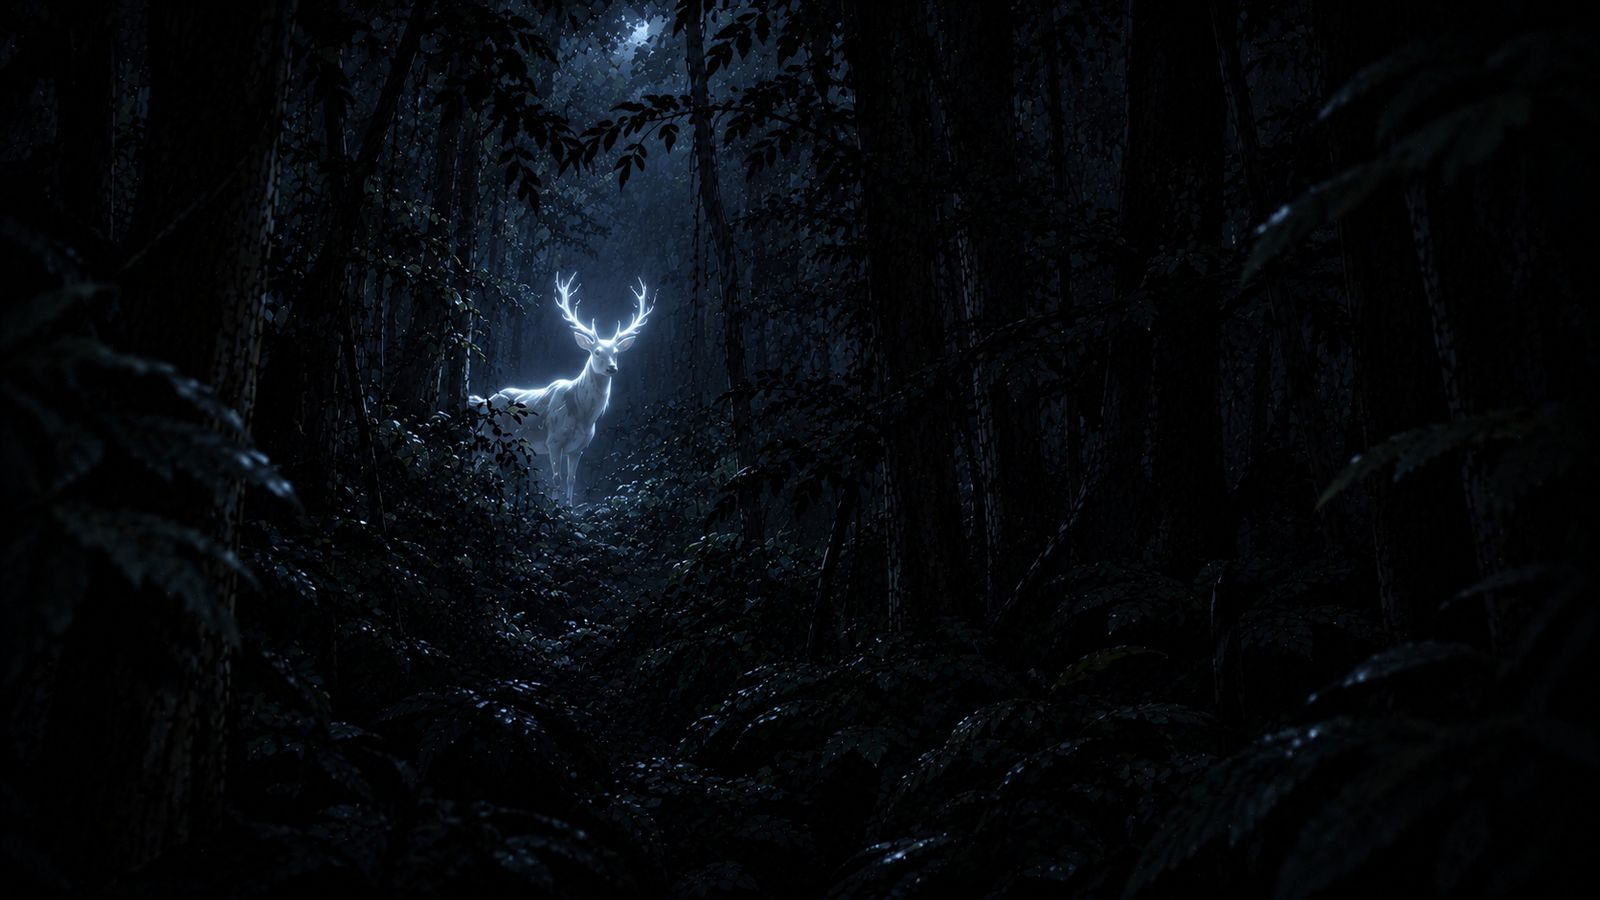
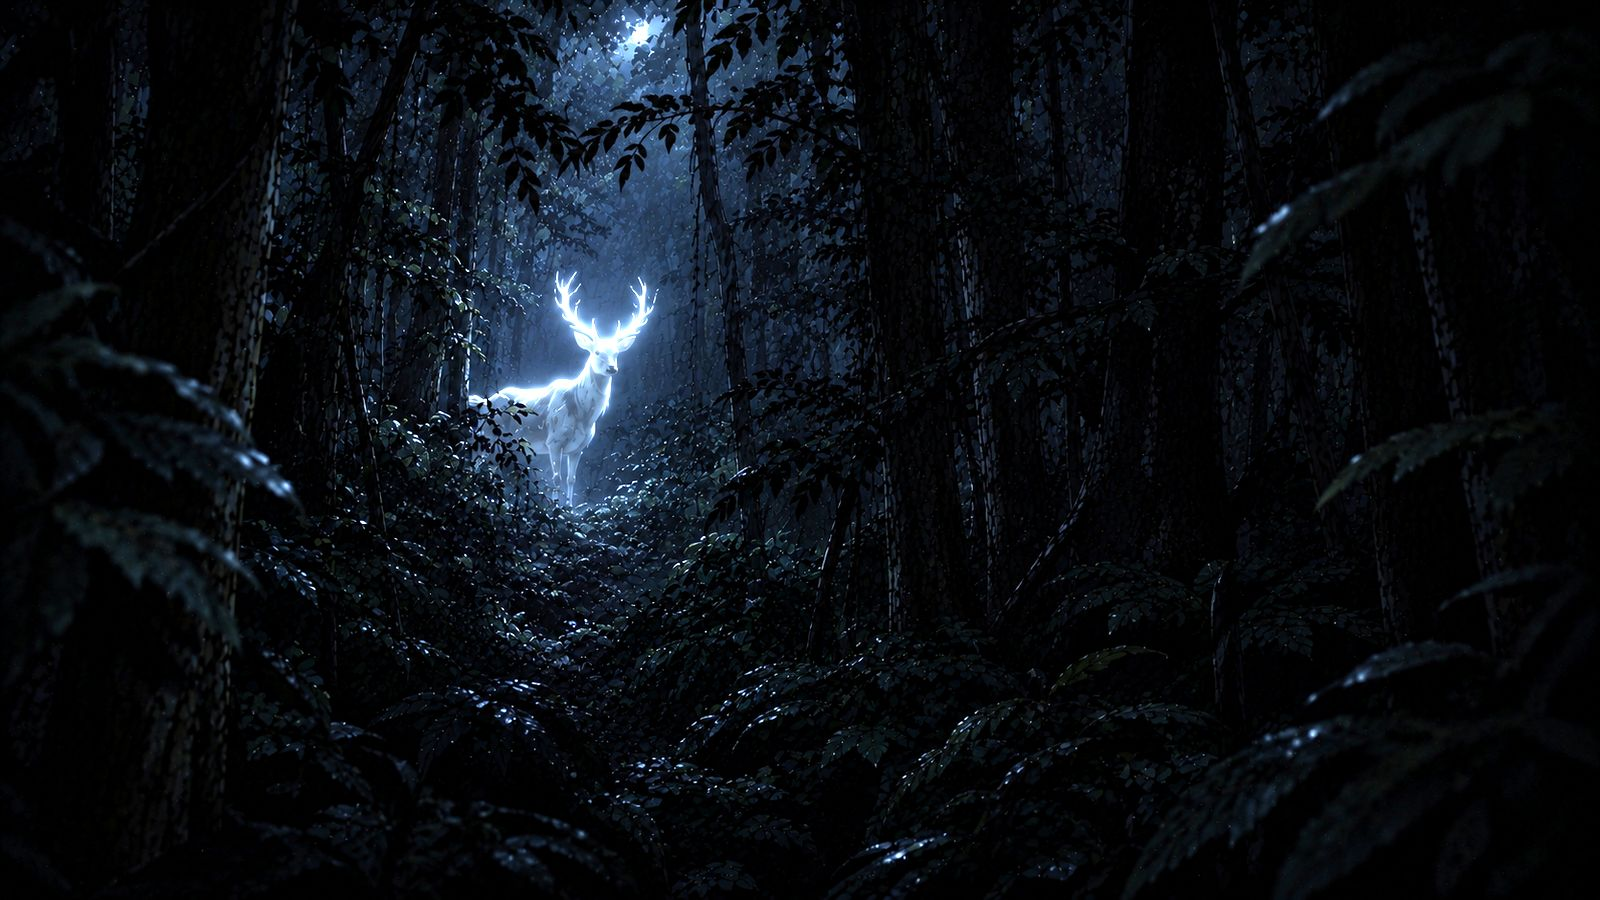
Manhã na fogueira com os corpos, Anhangá mais claro e falas fora de hora
- Toda manhã depois de uma morte (pela mão do jogador ou pela maldição)
  começa na fogueira de dia (FogueiraDia, nova), com cada corpo coberto pela
  esteira onde a pessoa sentava e o nome em cima.
- Esteiras clareadas na conversão (2,1x): não somem mais no chão escuro.
- Anhangá: imagens clareadas e mostradas sem o filtro da noite (o veado com
  as cores do desenho); o mesmo nos fundos próprios dos finais.
- Fundo do final A Água do Batismo (Finais/batismo.png); o Anhangá_final foi
  para Arte/Ar_livre/Finais/.
- Falas que só cabiam na 1ª noite: Potira (noites 5 a 10), Iandé (noite 8) e
  as orelhas de Tamandaré-mirim nas noites 9 e 10.

diff --git a/Jogo/dados/noites.py b/Jogo/dados/noites.py
@@ -244,13 +244,21 @@ ZONAS_POTIRA = [
     {"pergunta": "Respiração",
      "resposta": "Respira fundo, sem tosse."},
 ]
+# Da noite 5 em diante, Potira já dorme na aldeia: o cansaço e o frio não são mais do caminho.
+ZONAS_POTIRA_DEPOIS = [dict(zona) for zona in ZONAS_POTIRA]
+ZONAS_POTIRA_DEPOIS[1] = {"pergunta": "Olhos", "imagem": "olho_potira",
+                          "resposta": "[É sono]. Desde que voltei, durmo pouco."}
+ZONAS_POTIRA_DEPOIS[3] = {"pergunta": "Boca", "imagem": "boca_potira",
+                          "resposta": ["Os lábios? Estão secos.", "[É do frio]. As noites esfriaram."]}
 # Se Potira pegou a febre na oca e mostra: o olho vermelho e a boca ferida.
-ZONAS_POTIRA = pode_pegar_febre(ZONAS_POTIRA, "Potira", {
+POTIRA_COM_FEBRE = {
     "Olhos": {"sinal": True, "imagem": "olho_potira_doente",
               "resposta": "(treme) [Dormi mal], só isso."},
     "Boca": {"sinal": True, "imagem": "boca_potira_doente",
              "resposta": "(tosse) Arde por dentro."},
-})
+}
+ZONAS_POTIRA = pode_pegar_febre(ZONAS_POTIRA, "Potira", POTIRA_COM_FEBRE)
+ZONAS_POTIRA_DEPOIS = pode_pegar_febre(ZONAS_POTIRA_DEPOIS, "Potira", POTIRA_COM_FEBRE)
 
 
 # --- Noite 5: Tamandaré-mirim, com a maldição ---
@@ -367,6 +375,13 @@ def com_pescoco(zonas, pescoco=PESCOCO_LIMPO):
 ZONAS_TAMANDARE_NOITE_9 = com_pescoco(ZONAS_TAMANDARE_NOITE_6, {
     "pergunta": "Pescoço", "sinal": True,
     "resposta": "As manchas brancas já desceram até o pescoço."})
+# Atrás das orelhas, as manchas não estão mais "começando": já desceram.
+ZONAS_TAMANDARE_NOITE_9[3] = {"pergunta": "Orelhas", "sinal": True,
+                              "resposta": "Atrás das orelhas, manchas brancas que descem pelo pescoço."}
+# Na noite 8, Iandé já dormiu na aldeia (não mais na vila).
+ZONAS_IANDE_NOITE_8 = [dict(zona) for zona in ZONAS_IANDE]
+ZONAS_IANDE_NOITE_8[1] = {"pergunta": "Olhos", "imagem": "olho_iande",
+                          "resposta": "[Dormi bem]. A rede daqui é macia."}
 # Na noite 9 a maldição de Iandé aparece também no olho e na boca.
 ZONAS_IANDE_NOITE_9 = [dict(zona) for zona in ZONAS_IANDE]
 ZONAS_IANDE_NOITE_9[1] = {"pergunta": "Olhos", "sinal": True, "imagem": "olho_iande_doente",
@@ -787,7 +802,7 @@ NOITES = {
                         barulho_na_mata(),
                     ]},
                     {"tipo": "exame", "quem": "Potira", "liberadas": ["Olhos", "Boca"],
-                     "texto": TEXTO_EXAME, "zonas": ZONAS_POTIRA},
+                     "texto": TEXTO_EXAME, "zonas": ZONAS_POTIRA_DEPOIS},
                     escolha_onde_dorme("Potira", "Durmo na rede de sempre.",
                                        "Sozinha? Se você manda, eu vou."),
                     {"tipo": "visitante", "visitante": None},
@@ -889,7 +904,7 @@ NOITES = {
                          "resposta": "Vi rede vazia pendurada. Não entrei."},
                     ]},
                     {"tipo": "exame", "quem": "Potira", "liberadas": LIBERADAS_NOITE_6,
-                     "texto": TEXTO_EXAME, "zonas": ZONAS_POTIRA},
+                     "texto": TEXTO_EXAME, "zonas": ZONAS_POTIRA_DEPOIS},
                     escolha_onde_dorme("Potira", "Durmo na rede de sempre.",
                                        "Sozinha? Se você manda, eu vou."),
                     {"tipo": "visitante", "visitante": None},
@@ -988,7 +1003,7 @@ NOITES = {
                          "resposta": "Vi rede vazia pendurada. Não entrei."},
                     ]},
                     {"tipo": "exame", "quem": "Potira", "liberadas": LIBERADAS_NOITE_6,
-                     "texto": TEXTO_EXAME, "zonas": ZONAS_POTIRA},
+                     "texto": TEXTO_EXAME, "zonas": ZONAS_POTIRA_DEPOIS},
                     escolha_onde_dorme("Potira", "Durmo na rede de sempre.",
                                        "Sozinha? Se você manda, eu vou."),
                     {"tipo": "visitante", "visitante": None},
@@ -1129,7 +1144,7 @@ NOITES = {
                          "resposta": "Vi rede vazia pendurada. Não entrei."},
                     ]},
                     {"tipo": "exame", "quem": "Potira", "liberadas": LIBERADAS_NOITE_6,
-                     "texto": TEXTO_EXAME, "zonas": ZONAS_POTIRA},
+                     "texto": TEXTO_EXAME, "zonas": ZONAS_POTIRA_DEPOIS},
                     escolha_onde_dorme("Potira", "Durmo na rede de sempre.",
                                        "Sozinha? Se você manda, eu vou."),
                     {"tipo": "visitante", "visitante": None},
@@ -1162,7 +1177,7 @@ NOITES = {
                          "resposta": "Vi uma casa fechada, com uma cruz na porta."},
                     ]},
                     {"tipo": "exame", "quem": "Iandé", "liberadas": LIBERADAS_NOITE_6,
-                     "texto": TEXTO_EXAME, "zonas": ZONAS_IANDE},
+                     "texto": TEXTO_EXAME, "zonas": ZONAS_IANDE_NOITE_8},
                     escolha_onde_dorme("Iandé", "Na minha rede de sempre. Que saudade.",
                                        "Sozinha? O que foi que eu fiz?"),
                     {"tipo": "visitante", "visitante": None},
@@ -1244,7 +1259,7 @@ NOITES = {
                          "resposta": "Vi rede vazia pendurada. Não entrei."},
                     ]},
                     {"tipo": "exame", "quem": "Potira", "liberadas": LIBERADAS_NOITE_9,
-                     "texto": TEXTO_EXAME, "zonas": com_pescoco(ZONAS_POTIRA)},
+                     "texto": TEXTO_EXAME, "zonas": com_pescoco(ZONAS_POTIRA_DEPOIS)},
                     escolha_onde_dorme("Potira", "Durmo na rede de sempre.",
                                        "Sozinha? Se você manda, eu vou."),
                     {"tipo": "visitante", "visitante": None},
@@ -1377,7 +1392,7 @@ NOITES = {
                          "resposta": "Vi rede vazia pendurada. Não entrei."},
                     ]},
                     {"tipo": "exame", "quem": "Potira", "liberadas": LIBERADAS_NOITE_10,
-                     "texto": TEXTO_EXAME, "zonas": com_pescoco(ZONAS_POTIRA)},
+                     "texto": TEXTO_EXAME, "zonas": com_pescoco(ZONAS_POTIRA_DEPOIS)},
                     escolha_onde_dorme("Potira", "Durmo na rede de sempre.",
                                        "Sozinha? Se você manda, eu vou."),
                     {"tipo": "visitante", "visitante": None},

diff --git a/Jogo/cenas/dia.py b/Jogo/cenas/dia.py
@@ -52,6 +52,8 @@ POSICAO_BOTAO_MENU = (1420, 60)
 CENTRO_DICA_FOGUEIRA = (800, 850)          # sem a seta de ir dormir, a dica fica embaixo
 CENTRO_DICA_FOGUEIRA_SETA = (800, 730)     # com a seta, ela sobe
 CENTRO_SETA_DORMIR = (800, 830)
+# A manhã depois de uma morte: a fogueira de perto, de dia (os troncos no mesmo lugar que de noite).
+FOGUEIRA_DE_DIA = "fogueira_dia"
 LARGURA_DETALHE = 520          # o olho de perto, embaixo do painel
 # Fala que mostra o olho de perto: a caixa de texto fica menor, para o olho caber grande.
 LARGURA_PAINEL_DETALHE = 500
@@ -76,6 +78,13 @@ class Dia(Cena):
 
         self.fundo = ("aldeia", "dia")
         self.fundo_anterior = None
+        # Quem morreu na noite passada (pela mão do jogador ou pela maldição) amanhece coberto
+        # com a esteira, na fogueira: as notícias da manhã aparecem lá, até o jogador sair
+        # andando pela aldeia (o passo "aldeia").
+        self.manha_na_fogueira = any(corpo.get("fogueira") and corpo["noite"] == self.estado.dia - 1
+                                     for corpo in self.estado.corpos)
+        if self.manha_na_fogueira:
+            self.fundo = (FOGUEIRA_DE_DIA, "dia")
         self.tempo_troca = DURACAO_TROCA_DE_FUNDO
         self.visitante = None
         self.tempo_chegada = DURACAO_CHEGADA
@@ -169,6 +178,9 @@ class Dia(Cena):
             passo = self.fila.pop(0)
             tipo = passo["tipo"]
             if tipo == "fundo":
+                if self.manha_na_fogueira and passo["fundo"] == "aldeia":
+                    continue   # a manhã fica na fogueira, com os corpos
+                self.manha_na_fogueira = False
                 self._trocar_fundo((passo["fundo"], passo.get("filtro", "noite")))
             elif tipo == "visitante":
                 self.visitante = passo["visitante"]
@@ -185,6 +197,9 @@ class Dia(Cena):
                 self._mostrar_fala(DIA["tabua"], DIA["anotado"] + " " + passo["texto"])
                 return
             elif tipo == "aldeia":
+                if self.manha_na_fogueira:
+                    self.manha_na_fogueira = False
+                    self._trocar_fundo(("aldeia", "dia"))
                 self._ir_para_aldeia(passo)
                 return
             elif tipo == "se":
@@ -326,12 +341,16 @@ class Dia(Cena):
         """De noite, quem o jogador matou nesta fogueira; de manhã, na fogueira, o da noite passada."""
         noite = self.estado.dia if self.modo == "fogueira" else self.estado.dia - 1
         filtro = "noite" if self.modo == "fogueira" else self.fundo[1]
-        corpos = [corpo for corpo in self.estado.corpos if corpo["onde"] == "fogueira" and corpo["noite"] == noite]
+        corpos = [corpo for corpo in self.estado.corpos if corpo.get("fogueira") and corpo["noite"] == noite]
         chave = (noite, filtro, tuple(corpo["nome"] for corpo in corpos))
         if getattr(self, "_chave_corpos", None) != chave:   # monta as imagens só quando muda
             self._chave_corpos = chave
-            self._corpos = [corpo_no_cenario(corpo, filtro) for corpo in corpos]
+            self._corpos = [corpo_no_cenario(corpo, filtro, corpo["fogueira"]) for corpo in corpos]
         return self._corpos
+
+    def _mostra_corpos_da_manha(self):
+        """De manhã, na fogueira de dia: os corpos da noite passada, com o nome em cima."""
+        return self.modo != "fogueira" and self.fundo[0] == FOGUEIRA_DE_DIA and self._corpos_na_fogueira()
 
     def _mostrar_fogueira(self):
         self.modo = "fogueira"
@@ -524,7 +543,8 @@ class Dia(Cena):
         apelido, filtro = self.fundo
         return [
             {"tipo": "visitante", "visitante": None},
-            {"tipo": "fundo", "fundo": vez["fundo"], "filtro": "noite"},
+            # Sem o filtro da noite: a visão aparece com as cores do desenho (o veado branco).
+            {"tipo": "fundo", "fundo": vez["fundo"], "filtro": None},
             {"tipo": "fala", "quem": "", "texto": vez["resposta"]},
             {"tipo": "fundo", "fundo": apelido, "filtro": filtro},
             {"tipo": "visitante", "visitante": self.visitante},
@@ -770,7 +790,7 @@ class Dia(Cena):
         else:
             desenhar_cenario(tela, apelido, filtro, self.tempo)
 
-        if self.modo == "fogueira" or apelido == "fogueira_perto":
+        if self.modo == "fogueira" or apelido == FOGUEIRA_DE_DIA:
             # Os corpos ficam no chão, atrás de quem está sentado.
             for corpo in self._corpos_na_fogueira():
                 corpo.desenhar(tela)
@@ -833,6 +853,9 @@ class Dia(Cena):
         return menor
 
     def desenhar_interface(self, tela):
+        if self._mostra_corpos_da_manha():
+            for corpo in self._corpos_na_fogueira():
+                corpo.desenhar_destaque(tela, contorno=False)
         ui.texto_simples(tela, self.titulo, (40, 60), config.TAMANHO_PEQUENO,
                          nome_fonte="mono", cor=config.BARRO, ancora="esquerda")
         if self.energia is not None:

diff --git a/Jogo/ferramentas/converter_arte.py b/Jogo/ferramentas/converter_arte.py
@@ -29,6 +29,8 @@ CENARIOS = [
     ("Ar_livre/Aldeia.png", "cenarios/cenario-aldeia.jpg"),
     ("Ar_livre/FogueiraLonge.png", "cenarios/cenario-fogueira-longe.jpg"),
     ("Ar_livre/FogueiraPerto.png", "cenarios/cenario-fogueira-perto.jpg"),
+    # A mesma fogueira de perto, de dia (os troncos no mesmo lugar): a manhã depois de uma morte.
+    ("Ar_livre/FogueiraDia.png", "cenarios/cenario-fogueira-dia.jpg"),
     ("Ar_livre/floresta_atras_personag.png", "cenarios/cenario-floresta.jpg"),
     # Por dentro das ocas (Arte/Ocas/). A oca 1 tem uma imagem só, para o dia e a noite.
     ("Ocas/Yorixiriamori_DN.png", "cenarios/cenario-oca1.jpg"),
@@ -41,17 +43,27 @@ CENARIOS = [
     # O tapiri por dentro: uma imagem só, para o dia e a noite.
     ("Ocas/Tabiri.png", "cenarios/cenario-tapiri.jpg"),
     # O Anhangá: a mata para onde o pajé aponta, a 1ª, a 2ª e a 3ª vez (o veado cada vez mais
-    # à vista), e a imagem atrás das telas do final Anhangá.
+    # à vista).
     ("Ar_livre/Anhanga_um.png", "cenarios/anhanga-1.jpg"),
     ("Ar_livre/Anhanga_dois.png", "cenarios/anhanga-2.jpg"),
     ("Ar_livre/Anhanga_tres.png", "cenarios/anhanga-3.jpg"),
-    ("Ar_livre/Anhanga_final.png", "cenarios/anhanga-final.jpg"),
+    # As imagens atrás das telas de cada final (Arte/Ar_livre/Finais/).
+    ("Ar_livre/Finais/Anhanga_final.png", "cenarios/anhanga-final.jpg"),
+    ("Ar_livre/Finais/batismo.png", "cenarios/final-batismo.jpg"),
 ]
 
 # Cenários que saem mais claros que o original (1 = igual; 1.3 = 30% mais claro).
 CLAREAR = {
     "cenarios/cenario-oca3-dia.jpg": 1.3,     # a oca Wanadi, onde Potira fica
     "cenarios/cenario-oca3-noite.jpg": 1.3,
+    # O Anhangá veio muito escuro: com o filtro da noite por cima, o veado quase sumia.
+    "cenarios/anhanga-1.jpg": 2.2,
+    "cenarios/anhanga-2.jpg": 2.2,
+    "cenarios/anhanga-3.jpg": 2.0,
+    "cenarios/anhanga-final.jpg": 1.8,
+    # As esteiras (o corpo coberto) se misturavam com o chão escuro da fogueira.
+    "personagens/esteira.png": 2.1,
+    "personagens/esteira-amaldicoado.png": 2.1,
 }
 
 # CORTE PADRÃO DAS PESSOAS: do topo da cabeça até o meio das coxas, sempre com esta
@@ -321,6 +333,11 @@ def converter_sentado(origem, destino):
     imagem = imagem.crop(imagem.getchannel("A").getbbox())   # só a pessoa, sem a sobra em volta
     escala = ALTURA_SENTADO / imagem.height
     imagem = imagem.resize((round(imagem.width * escala), ALTURA_SENTADO), Image.LANCZOS)
+    if destino in CLAREAR:
+        # Clareia só a cor: a transparência fica como estava.
+        alfa = imagem.getchannel("A")
+        imagem = ImageEnhance.Brightness(imagem.convert("RGB")).enhance(CLAREAR[destino])
+        imagem.putalpha(alfa)
     imagem.save(caminho_destino, optimize=True)
     tamanho_kb = os.path.getsize(caminho_destino) // 1024
     print("  ok  %-22s -> %-36s %4d KB" % (origem.split("/")[-1], destino, tamanho_kb))

diff --git a/Jogo/motor/febre.py b/Jogo/motor/febre.py
@@ -25,6 +25,7 @@
 import random
 
 from dados.aldeia import ONDE_DORME, ONDE_DORME_TAPIRI
+from dados.noites import NOITES
 from dados.febre import CHANCE_DE_MOSTRAR, CONTAGIO, CONTAGIO_PEGOU, DIAS_ATE_MORRER, DOENTES, MANHA
 
 
@@ -83,13 +84,25 @@ def era_amaldicoado(estado, nome):
     return nome in DOENTES or any(entrada.get("nome") == nome for entrada in estado.febre)
 
 
+def _lugar(lugar):
+    return {"posicao": list(lugar["posicao"]), "escala": lugar["escala"],
+            "espelhar": lugar.get("espelhar", False)}
+
+
 def deixar_corpo(estado, nome, noite, onde, lugar, amaldicoado):
     """O corpo coberto com a esteira fica no lugar onde a pessoa estava, desde a noite em que
     morreu (lugar: o de dados/noites.py ou dados/aldeia.py, com "posicao", "escala" e, se
-    tiver, "espelhar")."""
-    estado.corpos.append({"nome": nome, "noite": noite, "onde": onde,
-                          "posicao": list(lugar["posicao"]), "escala": lugar["escala"],
-                          "espelhar": lugar.get("espelhar", False), "amaldicoado": amaldicoado})
+    tiver, "espelhar"). Na manhã seguinte, ele aparece também na fogueira, no lugar onde a
+    pessoa sentava naquela noite ("fogueira"; None se ela não estava na fogueira)."""
+    if onde == "fogueira":
+        fogueira = lugar
+    else:
+        pessoa = NOITES.get(noite, {}).get("pessoas", {}).get(nome)
+        fogueira = pessoa if pessoa and pessoa.get("de_fora") else None
+    corpo = {"nome": nome, "noite": noite, "onde": onde, "amaldicoado": amaldicoado,
+             "fogueira": _lugar(fogueira) if fogueira else None}
+    corpo.update(_lugar(lugar))
+    estado.corpos.append(corpo)
 
 
 def _corpo_na_oca(estado, nome):

diff --git a/Jogo/motor/pessoas.py b/Jogo/motor/pessoas.py
@@ -36,9 +36,9 @@ class PessoaNoCenario:
     def desenhar(self, tela):
         tela.blit(self.imagem, self.rect)
 
-    def desenhar_destaque(self, tela, texto=None):
-        """O contorno aceso e uma etiqueta com o nome acima da cabeça."""
-        if len(self.contorno) > 2:
+    def desenhar_destaque(self, tela, texto=None, contorno=True):
+        """O contorno aceso e uma etiqueta com o nome acima da cabeça (contorno=False: só o nome)."""
+        if contorno and len(self.contorno) > 2:
             pygame.draw.lines(tela, config.URUCUM, True, self.contorno, 3)
         fonte = fontes.fonte_escalada("sans", config.TAMANHO_PEQUENO)
         imagem = fonte.render(texto or self.nome, True, config.TABATINGA)
@@ -54,7 +54,10 @@ class PessoaNoCenario:
 ESCALA_ESTEIRA = 0.6
 
 
-def corpo_no_cenario(corpo, filtro):
+def corpo_no_cenario(corpo, filtro, lugar=None):
+    """lugar: {"posicao", "escala", "espelhar"} (ex.: corpo["fogueira"]); sem ele, o lugar
+    onde a pessoa morreu."""
+    lugar = lugar or corpo
     imagem = "esteira_amaldicoado" if corpo.get("amaldicoado") else "esteira"
-    return PessoaNoCenario(corpo["nome"], imagem, tuple(corpo["posicao"]),
-                           corpo["escala"] * ESCALA_ESTEIRA, filtro, espelhar=corpo.get("espelhar", False))
+    return PessoaNoCenario(corpo["nome"], imagem, tuple(lugar["posicao"]),
+                           lugar["escala"] * ESCALA_ESTEIRA, filtro, espelhar=lugar.get("espelhar", False))

diff --git a/Jogo/dados/dias.py b/Jogo/dados/dias.py
@@ -53,14 +53,13 @@ from dados.conversas import (conversa_araci, conversa_iande, conversa_mbae, conv
                              conversa_tamandare, conversa_yara)
 
 
-# A manhã depois de o jogador matar alguém na fogueira: a fogueira de dia, com o corpo coberto
-# pela esteira no lugar onde a pessoa sentava (a de amaldiçoado, se ela era: cenas/dia.py), e o
-# nome. Depois, volta para a aldeia. condicao: "morto_ontem" (morreu na noite passada) ou "morto".
+# A manhã depois de o jogador matar alguém na fogueira, com o nome. Toda manhã depois de uma
+# morte (pela mão do jogador ou pela maldição) começa na fogueira de dia, com cada corpo coberto
+# pela esteira onde a pessoa sentava (cenas/dia.py, manha_na_fogueira).
+# condicao: "morto_ontem" (morreu na noite passada) ou "morto".
 def corpo_de(nome, condicao="morto_ontem"):
     return {"tipo": "se", condicao: nome, "passos": [
-        {"tipo": "fundo", "fundo": "fogueira_perto", "filtro": "dia"},
         {"tipo": "fala", "quem": "", "texto": "O corpo de %s amanheceu coberto com uma esteira." % nome},
-        {"tipo": "fundo", "fundo": "aldeia", "filtro": "dia"},
     ]}
 
 # --- Dia 3: a primeira das três visitas do Irmão Aleixo (dias 3, 6 e 9) ---

diff --git a/Jogo/dados/arte.py b/Jogo/dados/arte.py
@@ -8,6 +8,7 @@ CENARIOS = {
     "aldeia": "cenarios/cenario-aldeia.jpg",
     "fogueira_longe": "cenarios/cenario-fogueira-longe.jpg",
     "fogueira_perto": "cenarios/cenario-fogueira-perto.jpg",
+    "fogueira_dia": "cenarios/cenario-fogueira-dia.jpg",   # a mesma, de dia (a manhã depois de uma morte)
     "floresta": "cenarios/cenario-floresta.jpg",   # a trilha na mata, atrás de quem chega
     "oca1": "cenarios/cenario-oca1.jpg",           # por dentro da oca 1 (Yorixiriamori), dia e noite
     "oca2_dia": "cenarios/cenario-oca2-dia.jpg",   # por dentro da oca 2 (Yebá Bëló), de dia
@@ -20,6 +21,7 @@ CENARIOS = {
     "anhanga_dois": "cenarios/anhanga-2.jpg",
     "anhanga_tres": "cenarios/anhanga-3.jpg",
     "anhanga_final": "cenarios/anhanga-final.jpg",
+    "batismo_final": "cenarios/final-batismo.jpg",   # o fundo do final A Água do Batismo
 }
 
 # Personagens gerados por ferramentas/converter_arte.py: PNG com fundo transparente,

diff --git a/Jogo/testes/teste_fluxo.py b/Jogo/testes/teste_fluxo.py
@@ -153,6 +153,9 @@ def testar_corpos():
     corpo = estado.corpos[0]
     assert (corpo["nome"], corpo["onde"], corpo["noite"], corpo["amaldicoado"]) == ("Yara", "oca1", 3, True), corpo
     assert tuple(corpo["posicao"]) == ONDE_DORME["Yara"]["posicao"]
+    # De manhã, o corpo aparece também na fogueira, onde ela sentava na noite em que morreu.
+    from dados.noites import NOITES
+    assert tuple(corpo["fogueira"]["posicao"]) == NOITES[3]["pessoas"]["Yara"]["posicao"], corpo
     # Quem era são (sem DOENTES e sem febre) ganha a esteira comum; quem chegou doente, a outra.
     assert not febre.era_amaldicoado(Estado(), "Potira") and febre.era_amaldicoado(Estado(), "Mbaé")
     print("ok corpos: a esteira no lugar de quem morreu")

diff --git a/Jogo/cenas/final.py b/Jogo/cenas/final.py
@@ -96,7 +96,9 @@ class Final(Cena):
         self.botao.atualizar(self.jogo.mouse)
 
     def desenhar_cena(self, tela):
-        desenhar_cenario(tela, self.final.get("fundo", TELA_FINAL["fundo"]), "noite", self.tempo)
+        # Final com imagem própria aparece com as cores do desenho (sem o filtro da noite).
+        filtro = None if "fundo" in self.final else "noite"
+        desenhar_cenario(tela, self.final.get("fundo", TELA_FINAL["fundo"]), filtro, self.tempo)
         # Final com imagem própria (o veado do Anhangá) escurece menos, para ela aparecer.
         efeitos.escurecer(tela, ESCURECER_COM_FUNDO if "fundo" in self.final else ESCURECER)
 

diff --git a/Jogo/dados/finais.py b/Jogo/dados/finais.py
@@ -78,6 +78,7 @@ FINAIS = [
         "condicao": [{"converteu": ">= 1"}],
         "antecipado": True,
         "a_partir_da_noite": 9,
+        "fundo": "batismo_final",
         "cena": "A água escorre pela sua testa, e você ganha um nome que não é o seu. Na vila, o "
                 "mesmo padre derrama a mesma água na testa de um doente, que morre logo depois.",
         "fato": "Em abril de 1563, na aldeia de Santiago, na Bahia, os jesuítas batizaram 84 "
